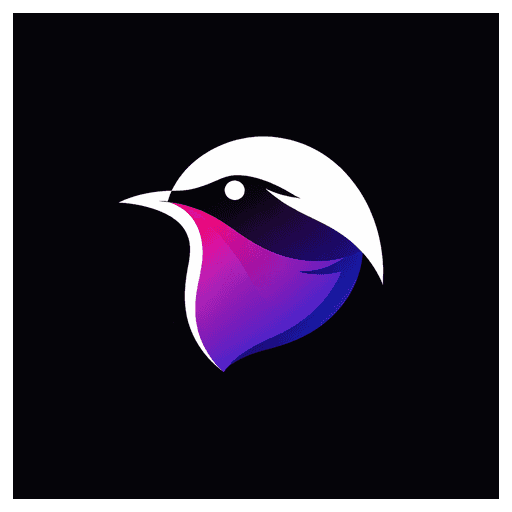
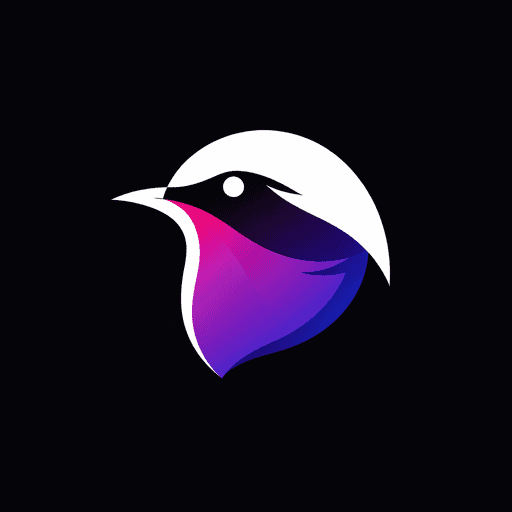
PWAのアイコンに白が入り込むのを防止

diff --git a/client/pwa-assets.config.ts b/client/pwa-assets.config.ts
@@ -1,9 +1,29 @@
-import { defineConfig, minimal2023Preset as preset } from '@vite-pwa/assets-generator/config'
+import { defineConfig, minimal2023Preset } from '@vite-pwa/assets-generator/config'
+import type { Preset } from '@vite-pwa/assets-generator/presets'
+
+const customPreset: Partial<Preset> = {
+  maskable: {
+    ...minimal2023Preset.maskable,
+    padding: 0
+  },
+  apple: {
+    ...minimal2023Preset.apple,
+    padding: 0
+  },
+  transparent: {
+    ...minimal2023Preset.transparent,
+    padding: 0
+  }
+}
+const preset: Preset = {
+  ...minimal2023Preset,
+  ...customPreset
+}
 
 export default defineConfig({
   headLinkOptions: {
     preset: '2023',
   },
   preset: preset,
-  images: ['public/icon.svg'],
+  images: ['public/logo.png']
 })
